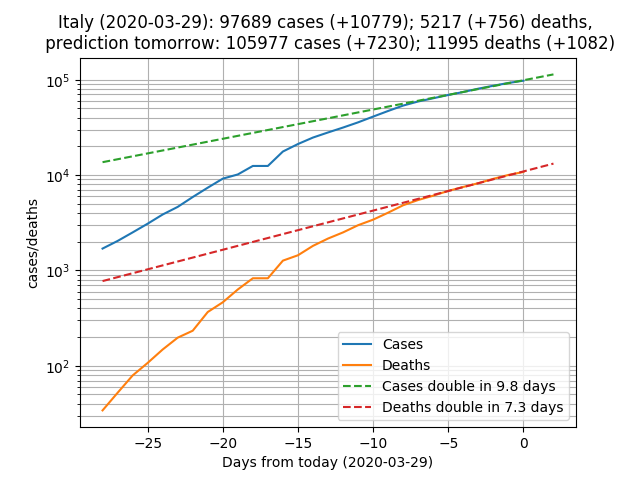
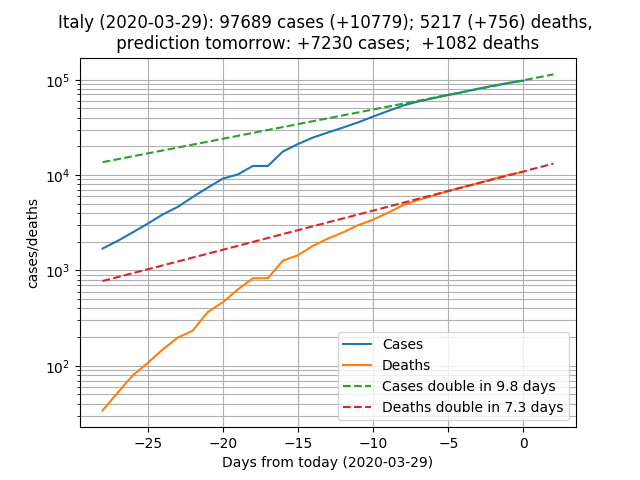
fix

Changed region(s): [[0.0625, 0.0625, 0.9688, 0.125]]

diff --git a/scripts/my_analysis.py b/scripts/my_analysis.py
@@ -82,8 +82,11 @@ def analyze_country(country1,day=0,do_plot=True):
 
      t11 = numpy.concatenate((t1,numpy.array([1,2])))
 
+
      todayC = c1[-1]
      todayD = d1[-1]
+     yesterdayC = c1[-2]
+     yesterdayD = d1[-2]
      tomorrowC = expo2(1,poptC[0], poptC[1])
      tomorrowD = expo2(1,poptD[0], poptD[1])
 
@@ -96,11 +99,12 @@ def analyze_country(country1,day=0,do_plot=True):
               legend=["Cases","Deaths",
                       "Cases double in %2.1f days"%poptC[0],"Deaths double in %2.1f days"%poptD[0],],
               xtitle="Days from today (%s)" % date.today(),
-              title="%s (%s): %d cases %d deaths, \n prediction tomorrow: %d cases (+%d) %d deaths (+%d)"%\
+              title="%s (%s): %d cases (+%d); %d (+%d) deaths, \n prediction tomorrow: +%d cases;  +%d deaths "%\
                     (country1,date.today(),
                      todayC,todayD,
-                     tomorrowC,tomorrowC-todayC,
-                     tomorrowD,tomorrowD-todayD),
+                     todayC-yesterdayC, todayD-yesterdayD,
+                     expo2(1,poptC[0], poptC[1])-expo2(0,poptC[0], poptC[1]),
+                     expo2(1,poptD[0], poptD[1])-expo2(0,poptD[0], poptD[1])),
               ytitle="cases/deaths",
               linestyle=["solid","solid","dashed","dashed"],
               show=0)
@@ -206,14 +210,14 @@ def new_cases(country1):
 if __name__ == "__main__":
 
 
-    for country1 in ["Spain","Italy","France","US"]:
-        new_cases(country1)
+    # for country1 in ["Spain","Italy","France","US"]:
+    #     new_cases(country1)
 
     for country1 in ["Spain","Italy","France","US"]:
         analyze_country(country1)
 
-    italy_vs_spain()
-
-    for country1 in ["Spain","Italy","France","US"]:
-        model_analysis(country1)
+    # italy_vs_spain()
+    #
+    # for country1 in ["Spain","Italy","France","US"]:
+    #     model_analysis(country1)
      
